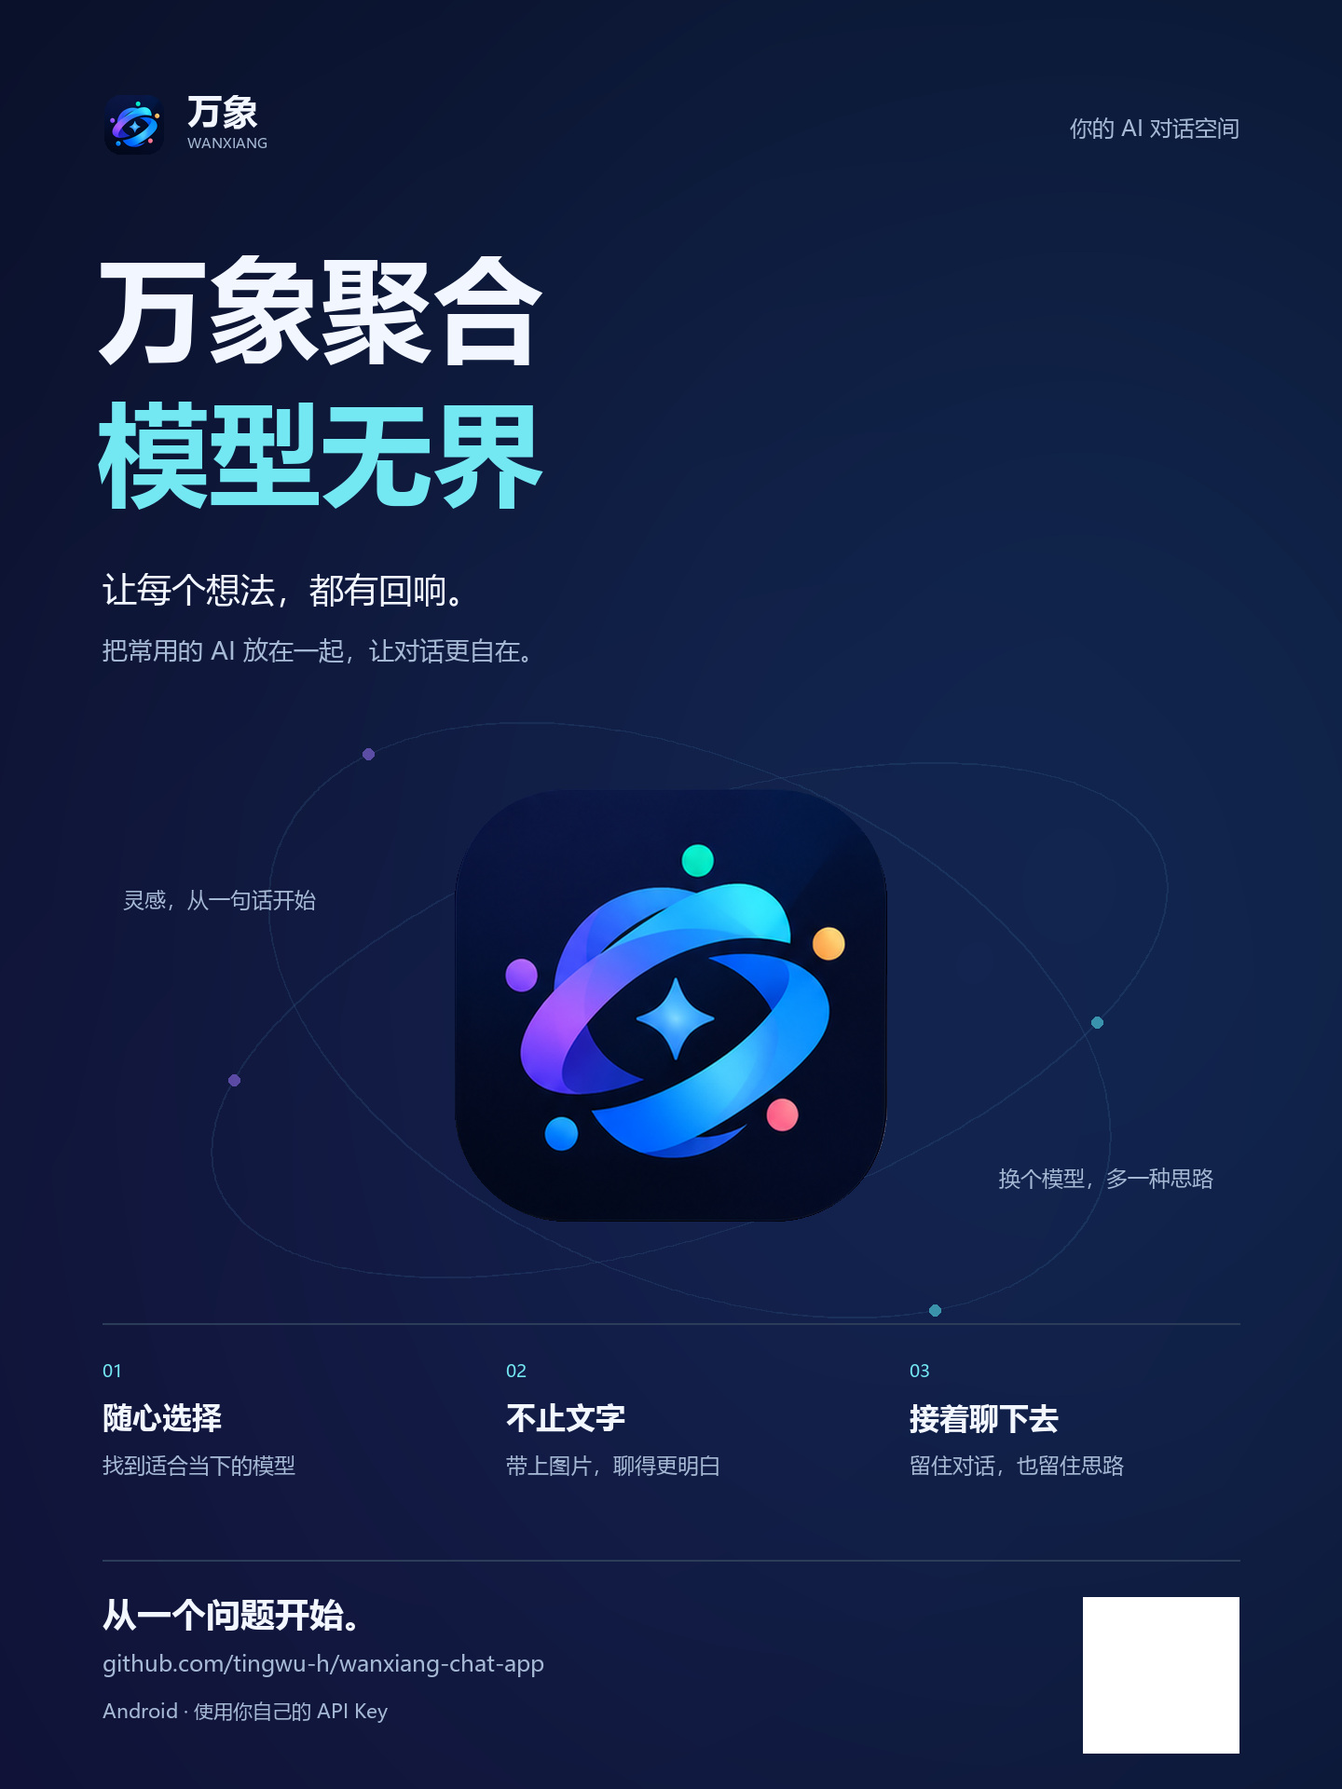
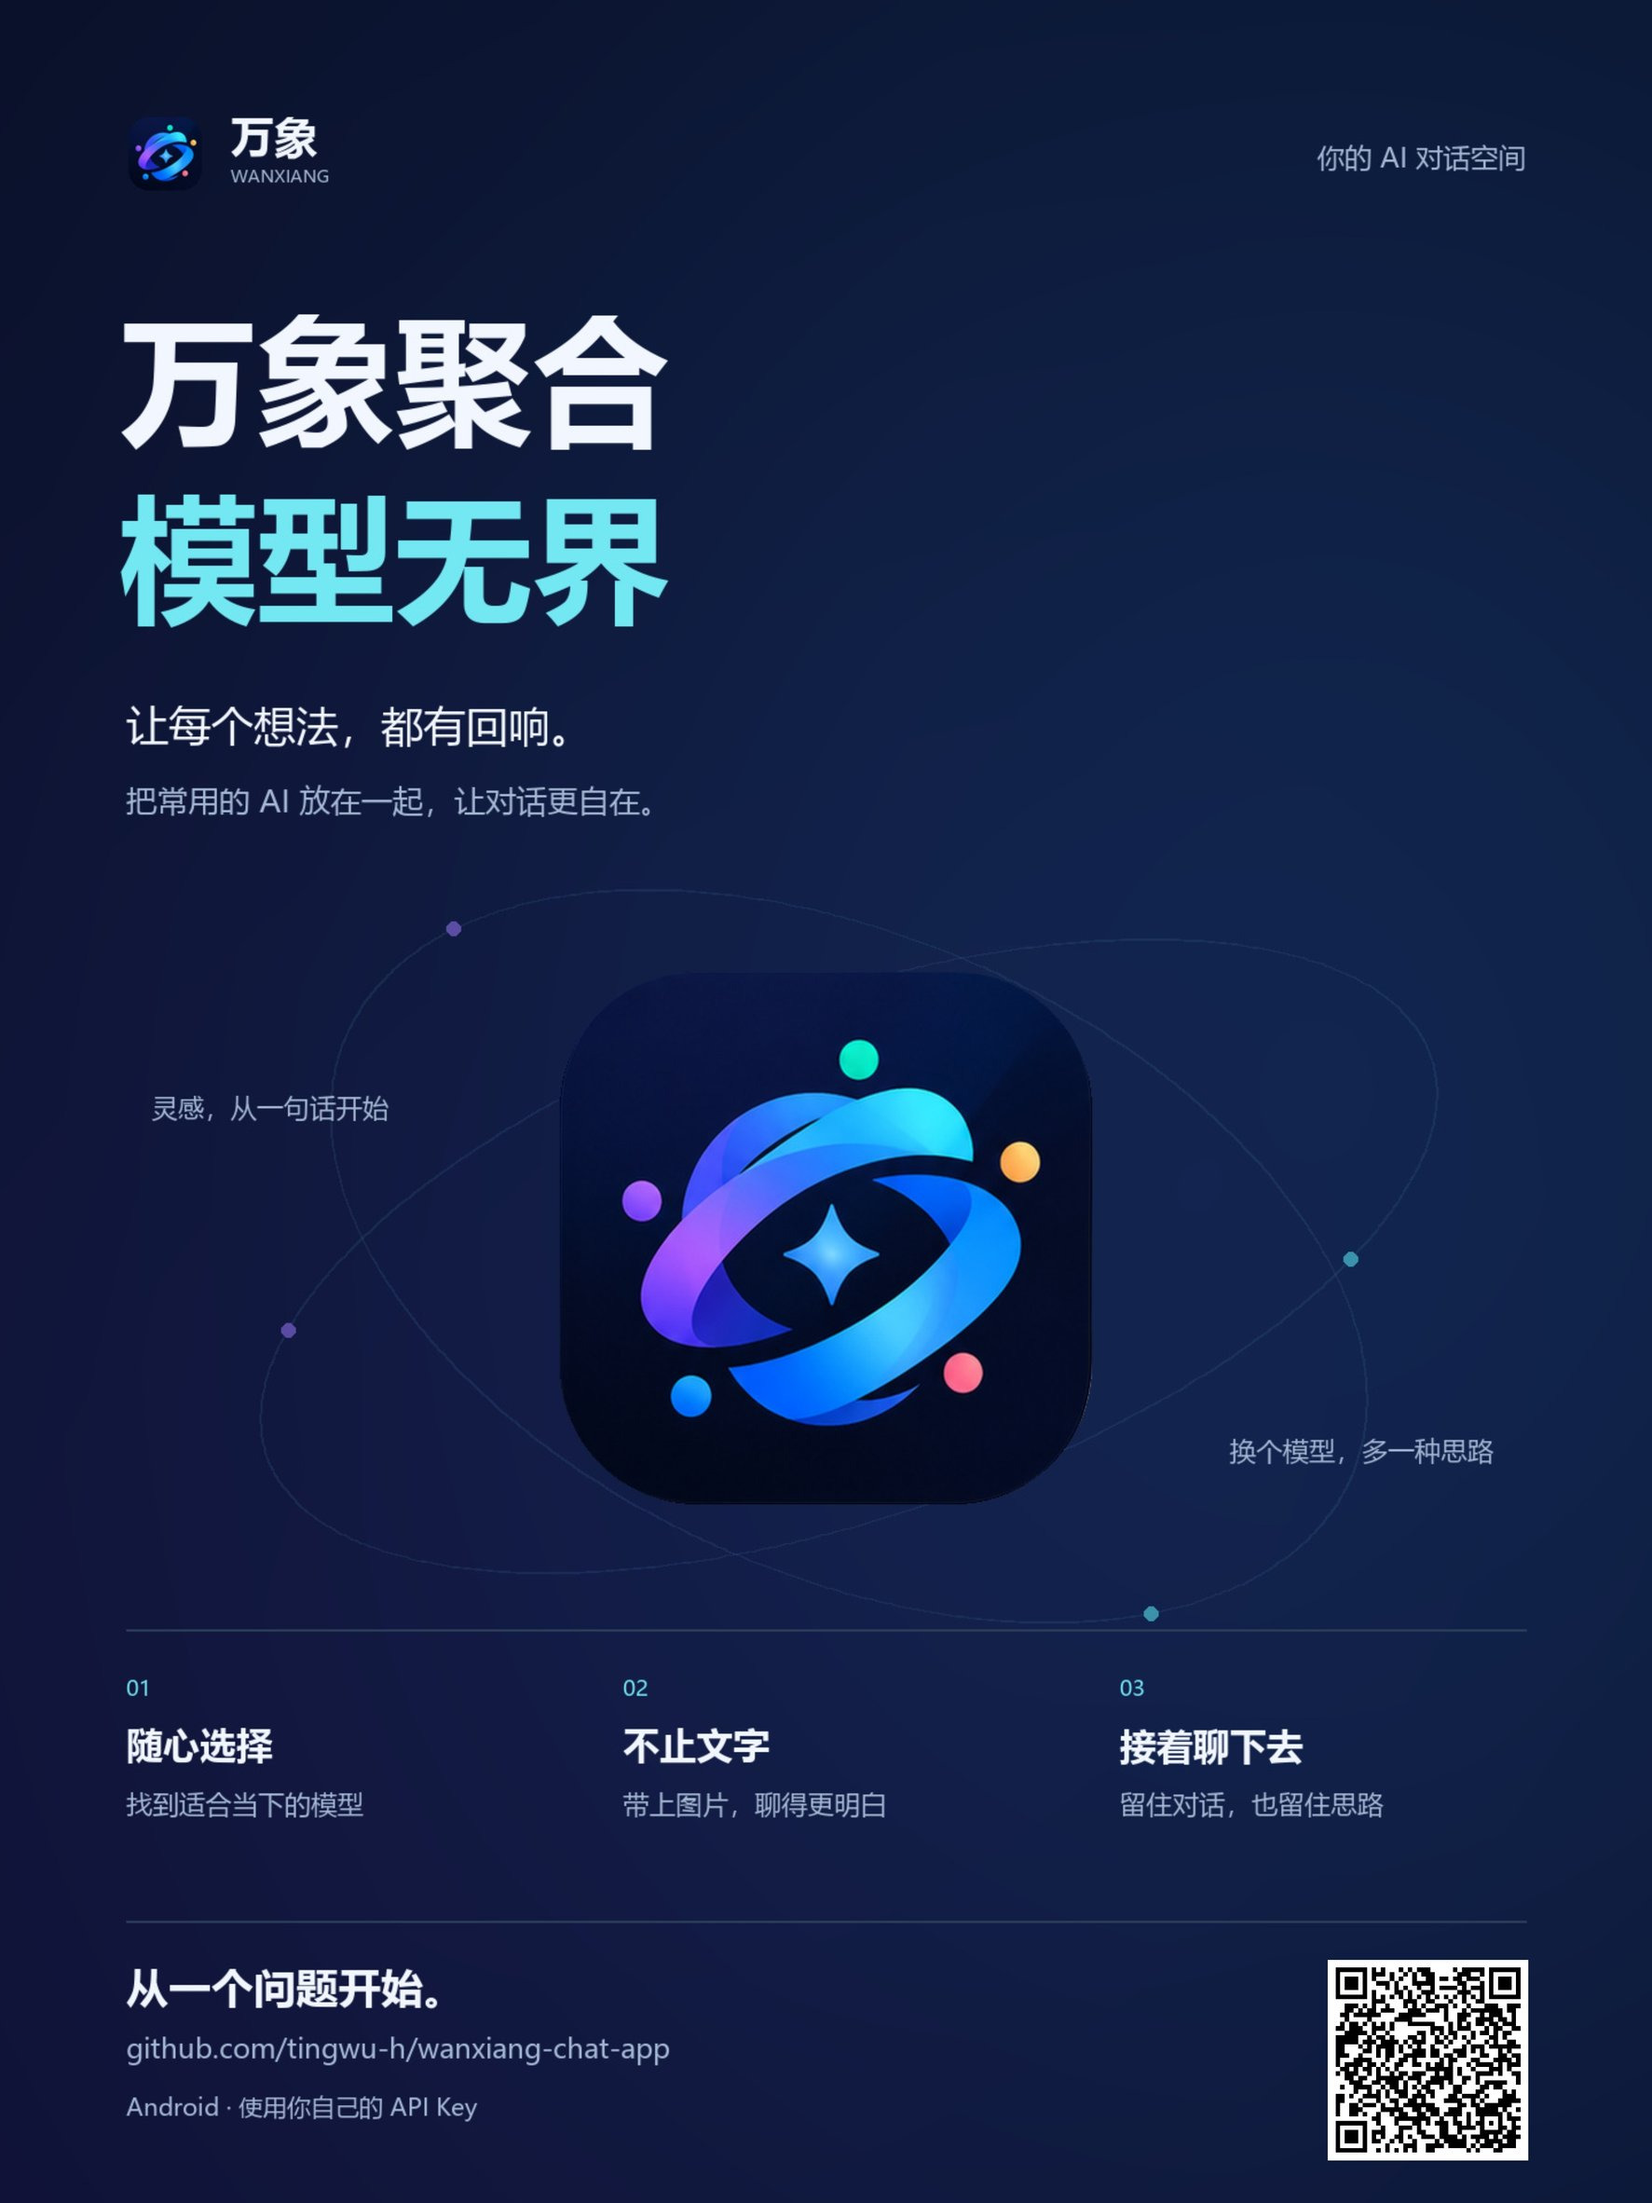
docs: use final posters with embedded QR code
替换为项目所有者提供的最终稿海报：右下角由纯白占位方框改为已嵌入的
项目主页二维码，并采用更高分辨率。

- 横版 1920x1080 -> 2730x1536
- 竖版 1440x1920 -> 1773x2364
- PNG（README 引用）、JPG（备档）、-preview.jpg（网页预览）同步更新
- docs/posters/README.md 更新尺寸与二维码说明；
  旧的绝对像素坐标基于早期尺寸，已改为比例描述
- 新增 tools/replace_posters.py，便于以后替换最终稿

README.md / README.zh-CN.md 的引用路径未变，未作改动。

diff --git a/tools/replace_posters.py b/tools/replace_posters.py
@@ -1,0 +1,54 @@
+"""用用户提供的最终海报（二维码已嵌入）替换仓库里的占位版本。
+
+输入：docs/posters/_new-landscape.jpg、_new-portrait.jpg
+输出：PNG（README 引用）、JPG（原图备份）、-preview.jpg（网页预览）
+
+不缩放、不重采样，只做格式转换与预览缩放，保证画质不损失。
+"""
+from pathlib import Path
+
+from PIL import Image
+
+POSTERS = Path(__file__).resolve().parent.parent / "docs" / "posters"
+
+JOBS = [
+    # (临时原图, 输出基名, 预览宽度)
+    ("_new-landscape.jpg", "wanxiang-poster-landscape", 1920),
+    ("_new-portrait.jpg", "wanxiang-poster-portrait", 1080),
+]
+
+
+def main() -> None:
+    for src_name, base, preview_w in JOBS:
+        src = POSTERS / src_name
+        if not src.exists():
+            raise SystemExit(f"缺少输入文件：{src}")
+
+        img = Image.open(src)
+
+        # PNG：README 直接引用，保持原始分辨率
+        png = POSTERS / f"{base}.png"
+        img.save(png, "PNG", optimize=True)
+
+        # JPG：原图备档，高质量
+        jpg = POSTERS / f"{base}.jpg"
+        img.convert("RGB").save(jpg, "JPEG", quality=92, optimize=True, subsampling=0)
+
+        # 预览：按宽度等比缩小，供网页快速加载
+        ratio = preview_w / img.width
+        preview = img.convert("RGB").resize(
+            (preview_w, round(img.height * ratio)), Image.LANCZOS
+        )
+        preview_path = POSTERS / f"{base}-preview.jpg"
+        preview.save(preview_path, "JPEG", quality=88, optimize=True, subsampling=0)
+
+        print(f"  {base}")
+        print(f"     源图      {img.width} x {img.height}")
+        print(f"     PNG       {png.stat().st_size / 1024:.0f} KB")
+        print(f"     JPG       {jpg.stat().st_size / 1024:.0f} KB")
+        print(f"     预览      {preview.width} x {preview.height}  "
+              f"{preview_path.stat().st_size / 1024:.0f} KB")
+
+
+if __name__ == "__main__":
+    main()

diff --git a/docs/posters/README.md b/docs/posters/README.md
@@ -4,14 +4,18 @@
 
 辅助文案：让每个想法，都有回响。把常用的 AI 放在一起，让对话更自在。
 
-设计要求：沿用项目所有者提供的 Logo；深蓝底与宽范围、低对比的蓝紫渐变；清晰的中文排版；不含版本号、日期、服务商数量、具体模型列表或可能过时的 UI 截图。右下角仅保留纯白方框，供后续添加二维码，当前不是可扫描二维码。
+设计要求：沿用项目所有者提供的 Logo；深蓝底与宽范围、低对比的蓝紫渐变；清晰的中文排版；不含版本号、日期、服务商数量、具体模型列表或可能过时的 UI 截图。右下角为项目主页二维码。
+
+当前版本：由项目所有者提供的最终稿，**二维码已嵌入**，分辨率高于早期排版稿。
 
 文件：
 
-- `wanxiang-poster-portrait.png` / `.jpg`：1440 × 1920 竖版。
-- `wanxiang-poster-landscape.png` / `.jpg`：1920 × 1080 横版。
+- `wanxiang-poster-portrait.png` / `.jpg`：1773 × 2364 竖版。
+- `wanxiang-poster-landscape.png` / `.jpg`：2730 × 1536 横版。
 - `*-preview.jpg`：缩小预览，不用于替代原图。
 
-二维码区域采用左上角坐标和宽高：竖版 `(1162, 1714, 168, 168)`；横版 `(1662, 839, 148, 148)`。嵌入二维码时保留码本身所需的白色静区。
+二维码位于右下角，约占画面宽度 4%，四周保留白色静区。需要重排版时按比例定位，不要沿用早期 1440 × 1920 / 1920 × 1080 版本记录的绝对像素坐标。
 
 制作方式：原品牌位图合成 + Pillow 中文字体精确排版，没有使用内置生图工具或图像 API；文案和布局参数在 `tools/create_poster.py`。可在具备 Pillow、NumPy 及 Windows 微软雅黑字体的环境运行 `python tools/create_poster.py` 重新生成。品牌原资源未修改。
+
+替换最终稿时把横竖两张按 `_new-landscape.jpg` / `_new-portrait.jpg` 放进本目录，运行 `python tools/replace_posters.py`，会同时更新 PNG、JPG 和预览图。
